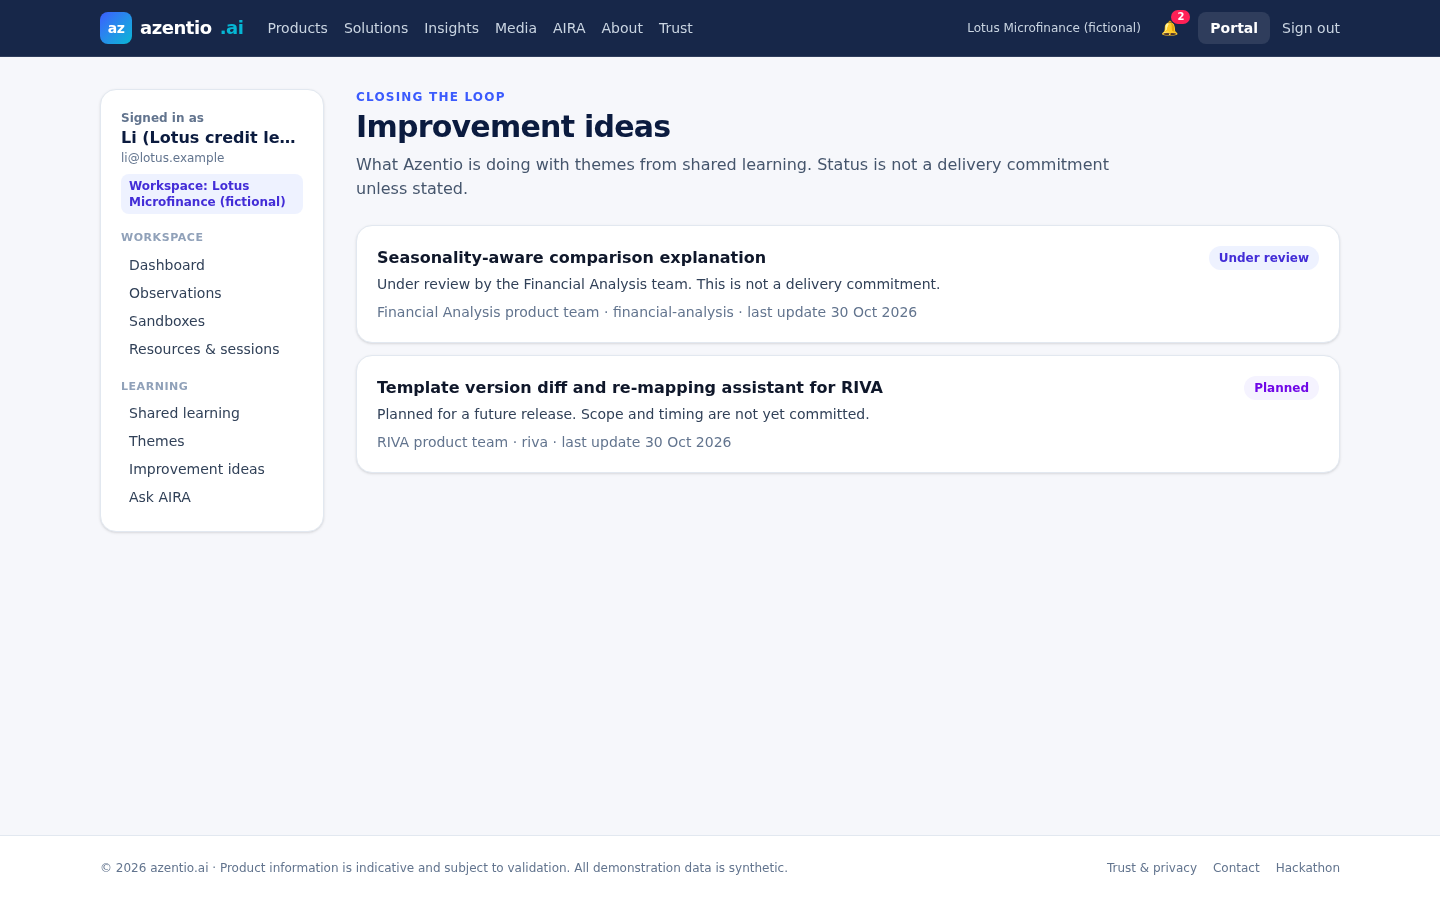
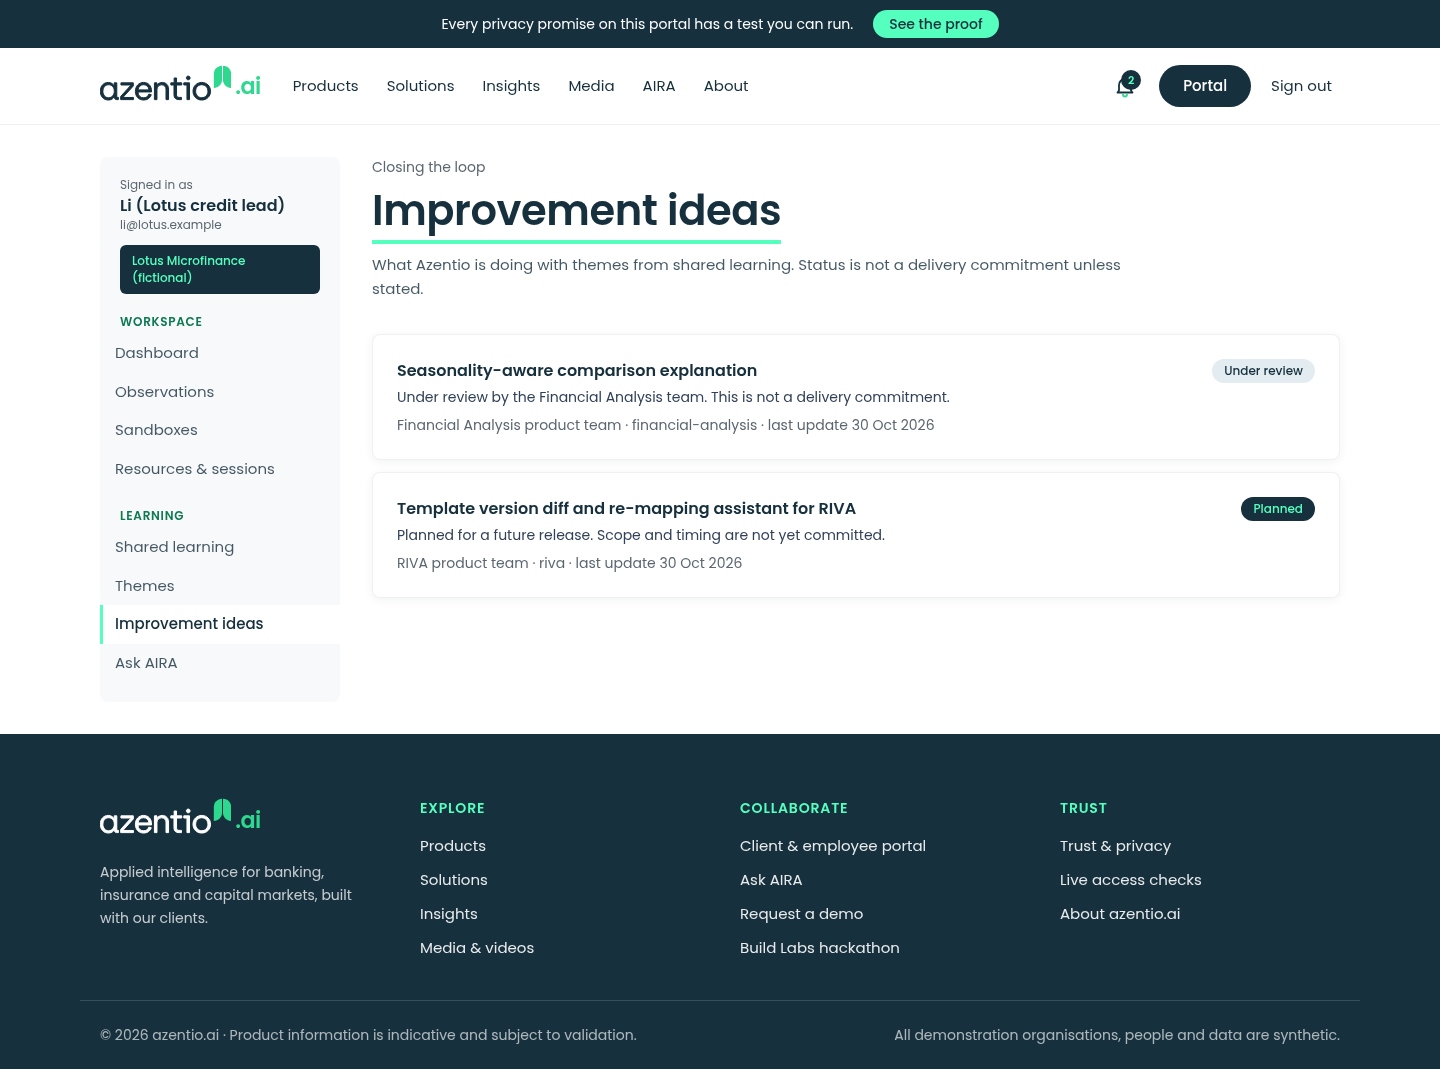
Refresh screenshots and test reports for the new design
Screenshots regenerated by the end-to-end run after the restyle, and reports from the latest full verification: 24 of 24 Trust Proof checks, 41 of 41 lifecycle tests, 21 of 21 HTTP checks and 30 of 30 browser steps.

diff --git a/portal/docs/trust-results.md b/portal/docs/trust-results.md
@@ -1,30 +1,30 @@
 # Trust Proof results
 
-Live run 2026-10-30T10:00:08.245Z after the end-to-end scenario. Probes run as each persona through the portal_app role; writes are rolled back.
+Live run 2026-10-30T16:10:27.569Z after the end-to-end scenario. Probes run as each persona through the portal_app role; writes are rolled back.
 
 | Test | Persona | Attempt | Expected | Actual | Result |
 |---|---|---|---|---|---|
-| AT-01 | Anonymous visitor | Read client contributions | 0 rows | 0 (26 ms) | PASS |
+| AT-01 | Anonymous visitor | Read client contributions | 0 rows | 0 (25 ms) | PASS |
 | AT-02 | Anonymous visitor | List employee-only media files | 0 rows | 0 (2 ms) | PASS |
-| AT-03 | Meridian client admin | Forge active workspace = Northwind | workspace rejected, no Northwind content | active org null, entitled RIVA items 0 (1 ms) | PASS |
-| AT-04 | Lotus client member | Read Meridian's contributions | 0 rows | 0 (1 ms) | PASS |
+| AT-03 | Meridian client admin | Forge active workspace = Northwind | workspace rejected, no Northwind content | active org null, entitled RIVA items 0 (2 ms) | PASS |
+| AT-04 | Lotus client member | Read Meridian's contributions | 0 rows | 0 (2 ms) | PASS |
 | AT-05 | Lotus client member | Open employee-only experiment offering by id | 0 rows | 0 (1 ms) | PASS |
 | AT-06 | Employee, no moderator grant | Read the moderation queue | 0 rows | 0 (1 ms) | PASS |
-| AT-07 | Learning moderator | Read unsubmitted private drafts | 0 drafts, reviewed items still visible | drafts 0, reviewable 9 (2 ms) | PASS |
+| AT-07 | Learning moderator | Read unsubmitted private drafts | 0 drafts, reviewed items still visible | drafts 0, reviewable 9 (3 ms) | PASS |
 | AT-08 | Meridian client admin | Grant themselves the moderator role | denied | denied: not allowed (1 ms) | PASS |
-| AT-09 | Meridian client admin | Invite an @azentio.com user into the client workspace | denied | denied: employees are provisioned by Azentio, not invited into client workspaces (1 ms) | PASS |
-| AT-10 | Verified email, no membership | Read shared learning and restricted content | 0 rows | 0 (3 ms) | PASS |
+| AT-09 | Meridian client admin | Invite an @azentio.com user into the client workspace | denied | denied: employees are provisioned by Azentio, not invited into client workspaces (3 ms) | PASS |
+| AT-10 | Verified email, no membership | Read shared learning and restricted content | 0 rows | 0 (4 ms) | PASS |
 | AT-12 | Lotus client member | Select the hidden source link of a shared item | denied (column not granted) | denied: permission denied for table shared_items (1 ms) | PASS |
-| AT-14 | Meridian author → Lotus reader | Withdraw a published item, then search and ask AIRA as another client | visible before, gone after | before 1, after 0, propagation 2 ms (3 ms) | PASS |
-| AT-15 | Lotus client member | Read the organisation count of a two-institution theme | withheld | items 3, orgs withheld (1 ms) | PASS |
+| AT-14 | Meridian author → Lotus reader | Withdraw a published item, then search and ask AIRA as another client | visible before, gone after | before 1, after 0, propagation 3 ms (7 ms) | PASS |
+| AT-15 | Lotus client member | Read the organisation count of a two-institution theme | withheld | items 3, orgs withheld (3 ms) | PASS |
 | AT-16 | Lotus client member | Three posts from one institution count once | 3 institutions for 3+ posts | items 3, orgs 3 (1 ms) | PASS |
 | AT-17 | Anonymous visitor | Ask AIRA about internal experiments | no employee or shared sources | 1 sources, 0 restricted (4 ms) | PASS |
 | AT-19 | Meridian client member | Publish their own submission (skip moderation) | denied | denied: not allowed (2 ms) | PASS |
 | AT-19b | Meridian client member | Set state = published directly with UPDATE | denied (column not granted) | denied: permission denied for table contributions (1 ms) | PASS |
-| AT-20 | System | Every published contribution has an audit event | 0 missing | 0 (1 ms) | PASS |
+| AT-20 | System | Every published contribution has an audit event | 0 missing | 0 (2 ms) | PASS |
 | AT-20b | Portal administrator | Delete or edit audit events | denied | denied: permission denied for table audit_events (1 ms) | PASS |
 | AT-21 | Content publisher | Publish content without an audience | denied | denied: null value in column "audience" of relation "content_items" violates not-null constraint (1 ms) | PASS |
 | AT-22 | Lotus client member | Read internal idea priority | 0 rows | 0 (1 ms) | PASS |
 | AT-23 | Learning moderator | Identify client authors | 0 client users visible | 0 (3 ms) | PASS |
 | AT-24 | Portal administrator | Read a client's private draft | 0 rows | 0 (1 ms) | PASS |
-| AT-25 | Northwind admin, active workspace Lotus | See RIVA content entitled to Northwind only | 0 rows | 0 (9 ms) | PASS |
+| AT-25 | Northwind admin, active workspace Lotus | See RIVA content entitled to Northwind only | 0 rows | 0 (1 ms) | PASS |

diff --git a/portal/docs/lifecycle-results.md b/portal/docs/lifecycle-results.md
@@ -1,6 +1,6 @@
 # Lifecycle test results
 
-Run 2026-10-30T09:58:41.582Z. 41/41 passed. Each test runs as personas through the portal_app role in a rolled-back transaction.
+Run 2026-10-30T16:08:49.223Z. 41/41 passed. Each test runs as personas through the portal_app role in a rolled-back transaction.
 
 | Test | Area | Scenario | Result |
 |---|---|---|---|

diff --git a/portal/docs/acceptance-http-results.md b/portal/docs/acceptance-http-results.md
@@ -1,6 +1,6 @@
 # HTTP acceptance results
 
-Run 2026-10-30T09:58:43.542Z against http://localhost:3100. 21/21 passed.
+Run 2026-10-30T16:08:53.158Z against http://localhost:3100. 21/21 passed.
 
 | Test | Scenario | HTTP status | Result |
 |---|---|---|---|
